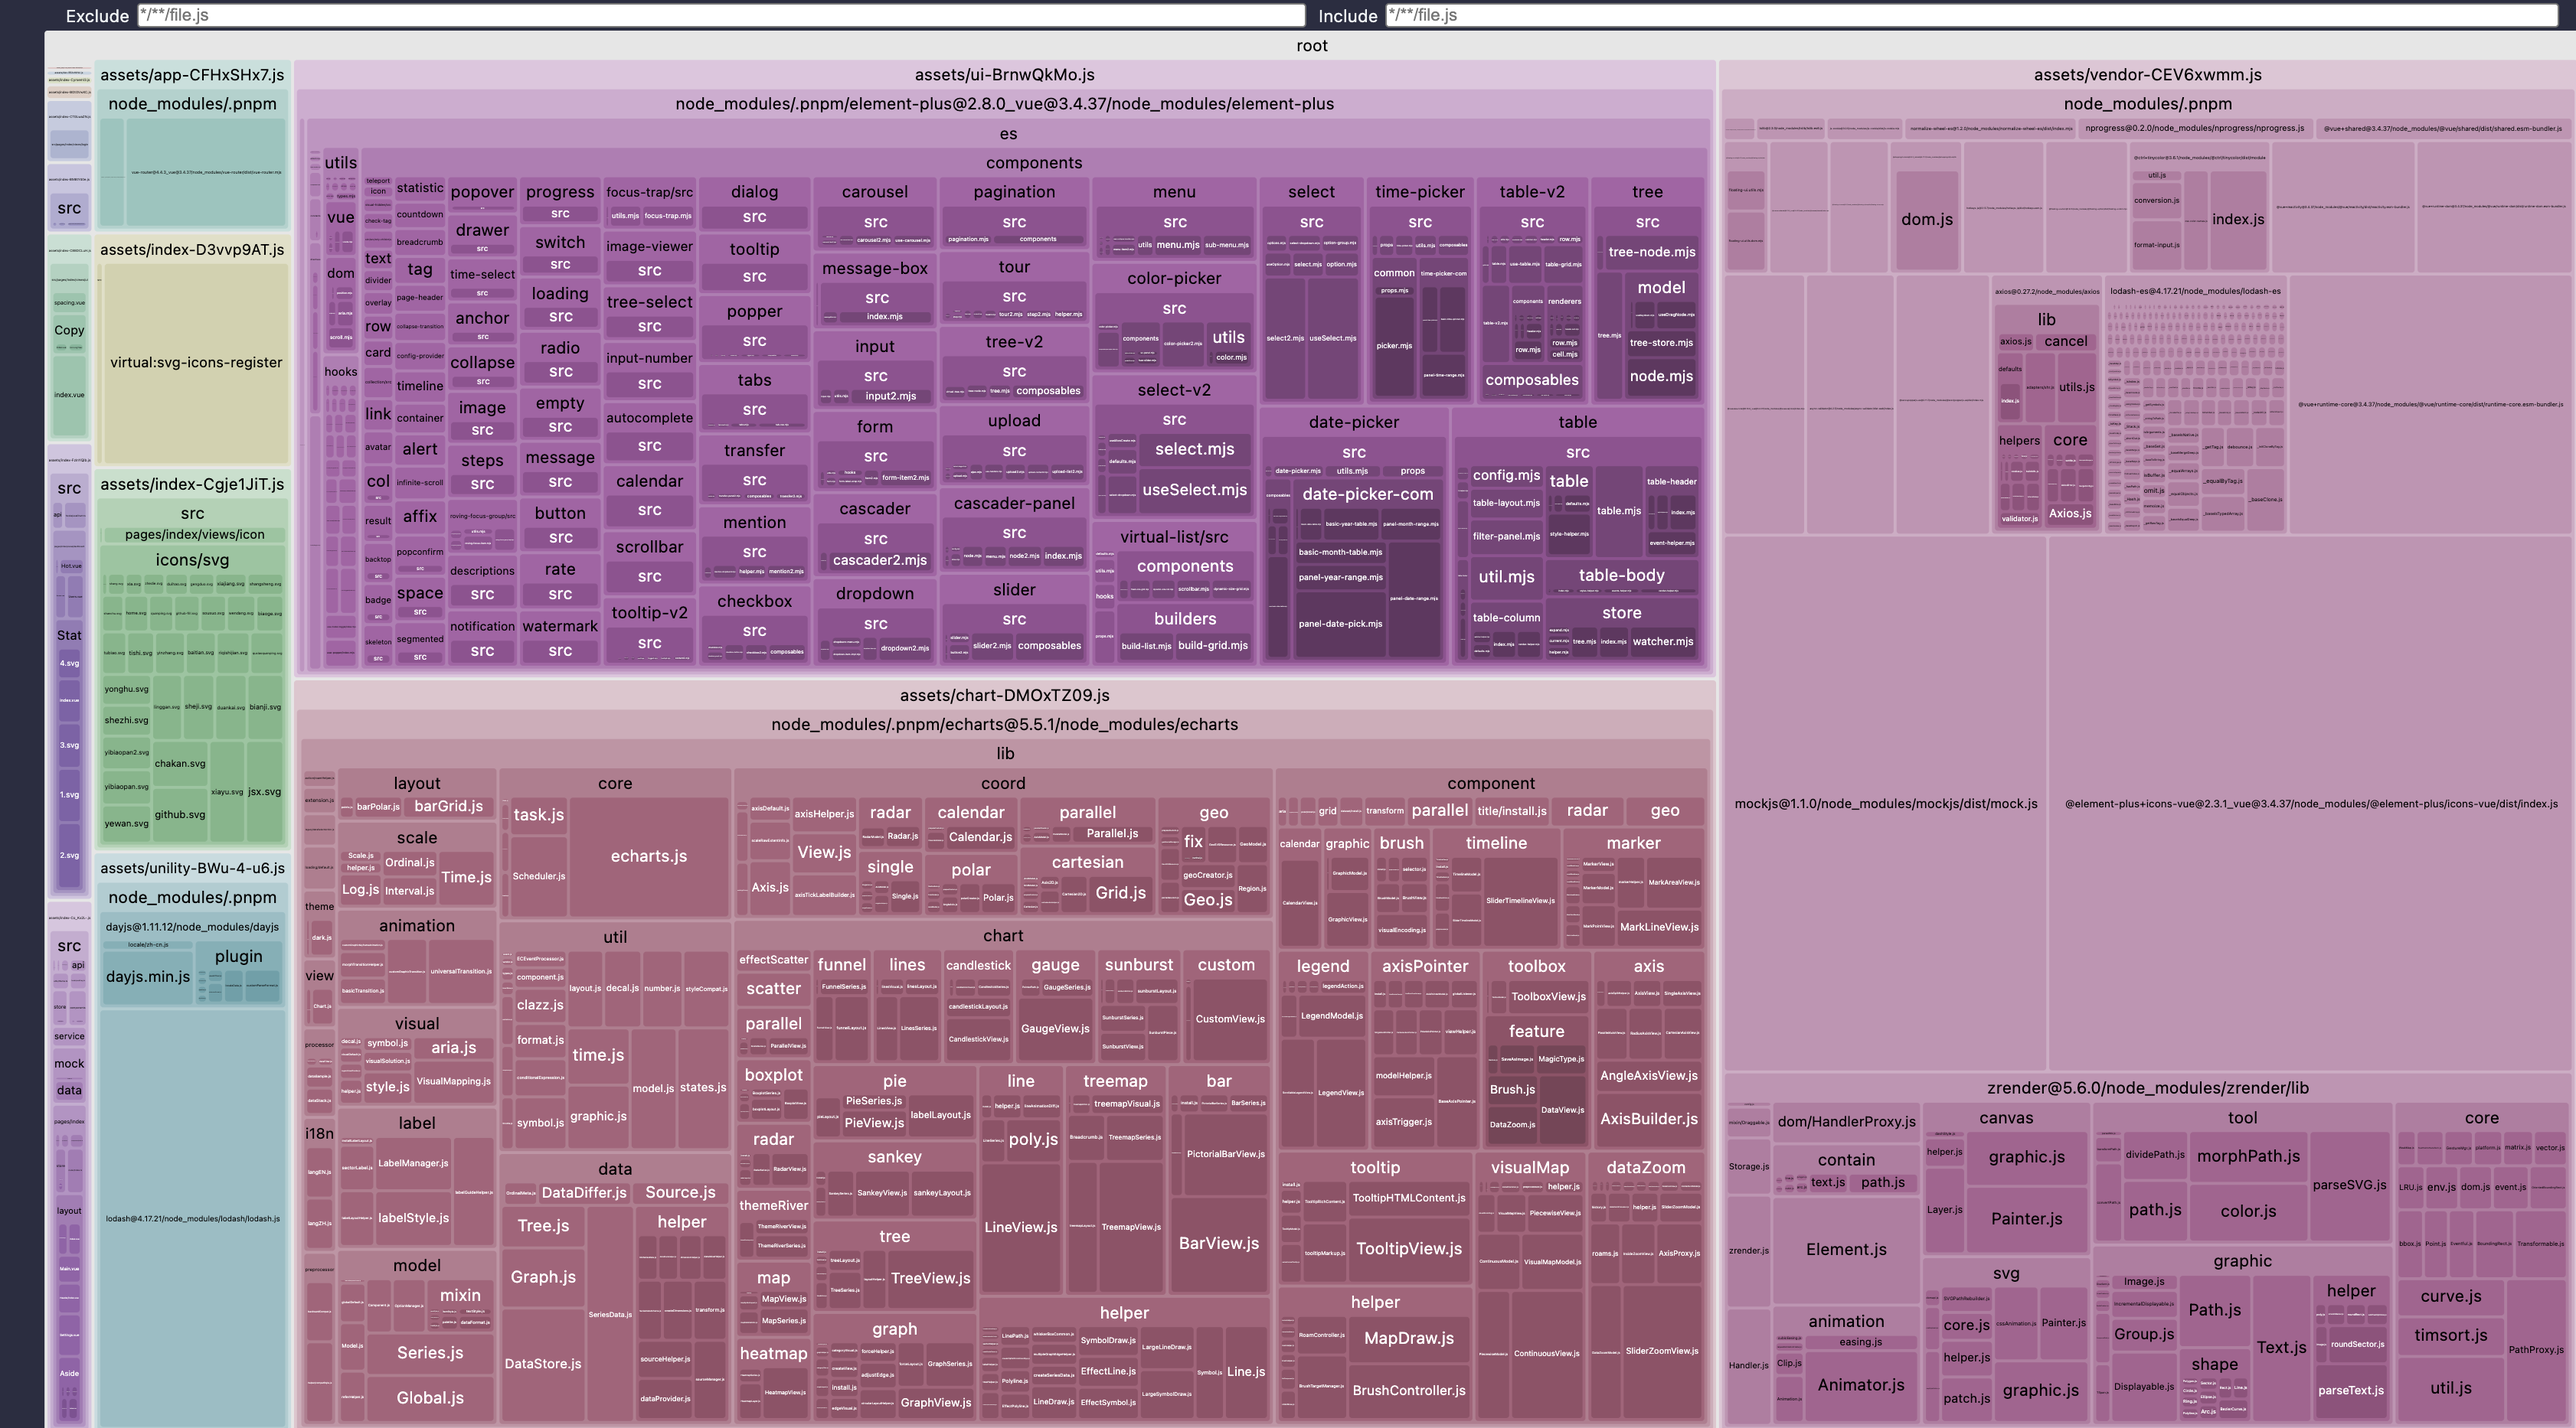
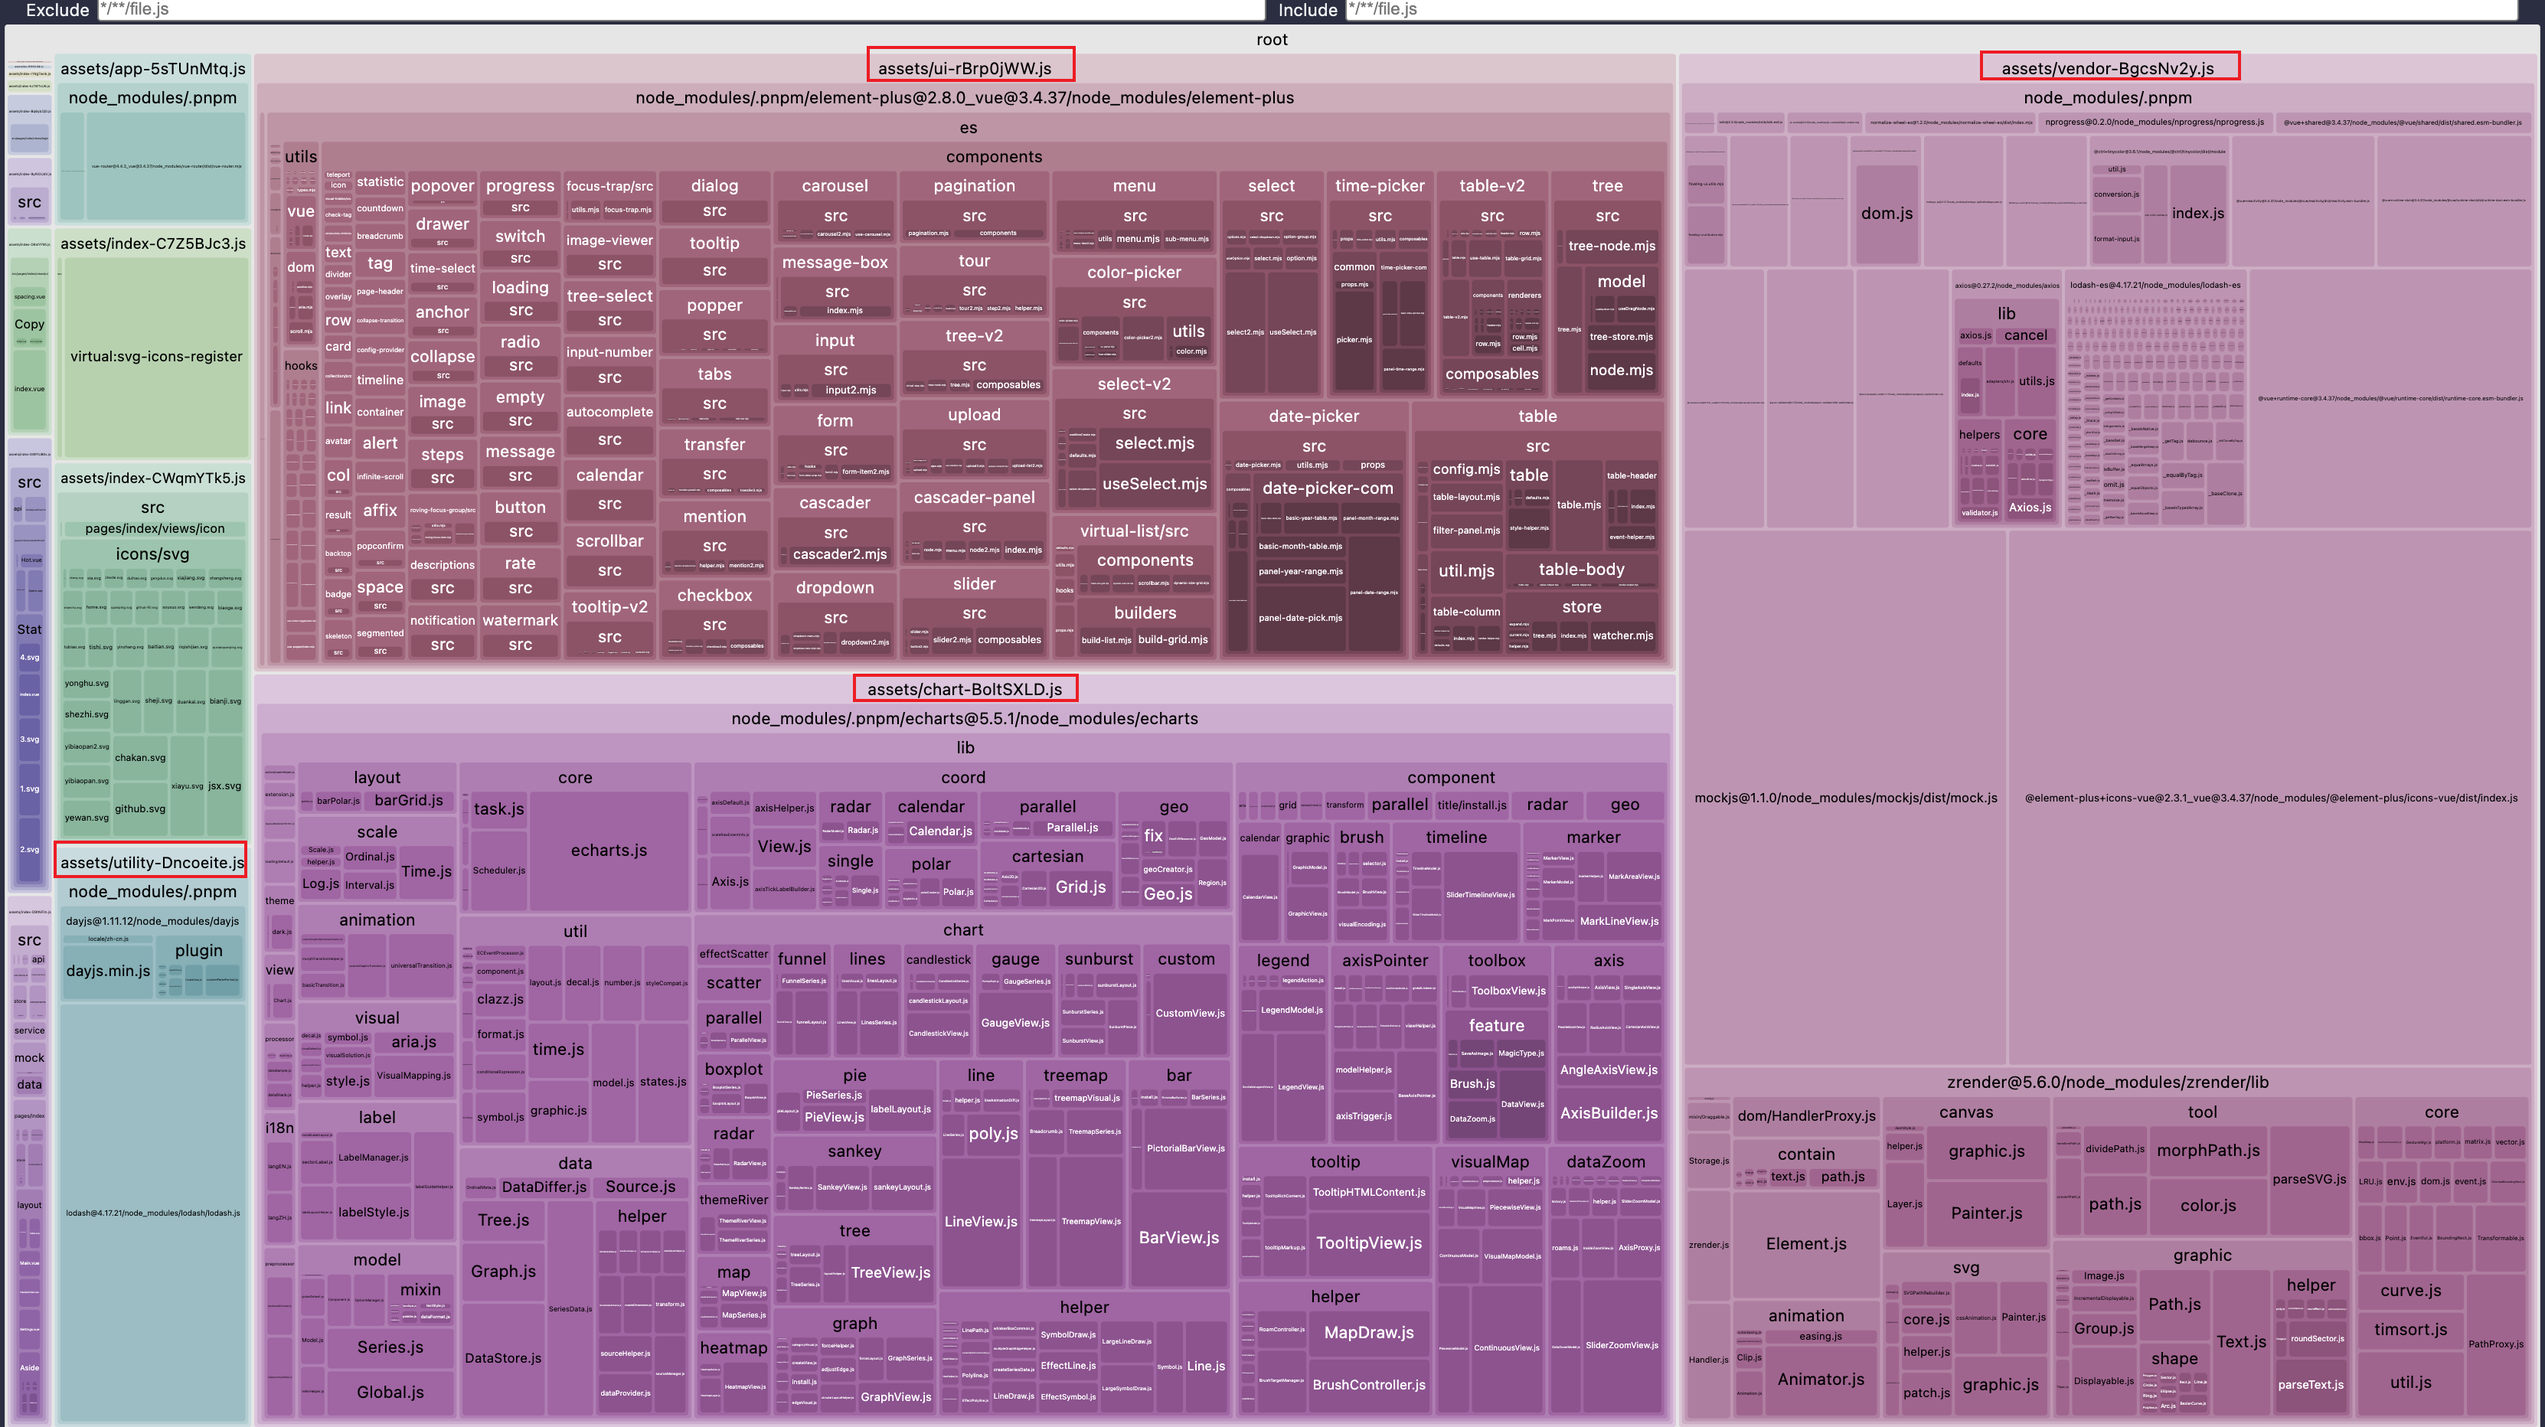
改错别字

diff --git a/docs/base/性能优化.md b/docs/base/性能优化.md
@@ -69,7 +69,7 @@ export default {
     'app': ['vue', 'vue-router', 'pinia'],
     'ui': ['element-plus'],
     'chart': ['echarts'],
-    'unility': ['lodash', 'dayjs'],
+    'utility': ['lodash', 'dayjs'],
   }
 } as Config
 ```
